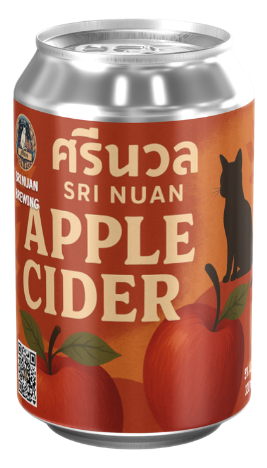
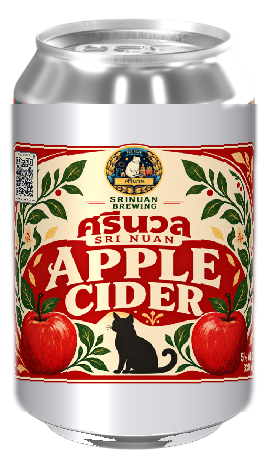
New can art, two new beers, and a storefront hide switch in admin
- Re-render the IPA, Apple Cider, Midnight, Som-Som and Blue Moon Pastry
  cans from the redesigned labels.
- IPA now 7.5% ABV; specs and notes follow the American IPA V.3 recipe
  (pilsner/wheat, Citra/Mosaic/Nectaron whirlpool, Citra/Mosaic/Amarillo
  dry hop, ~15 IBU).
- Add Corona-Khon Mexican Lager (6.0%, 13 IBU, pilsner + flaked maize,
  Saaz/Hallertauer Mittelfrueh) and Mangosteen Mead (4.0%, with Young Tam
  Farm), plus a Lager filter.
- Admin > Stock gets a Hide from site / Show on site button per beer.
  Backed by hidden:<id> keys in KV (/api/admin-visibility, /api/hidden);
  the storefront waits for that list so a hidden beer never flashes up.
- Bump asset version to v=50.

diff --git a/admin.html b/admin.html
@@ -6,7 +6,7 @@
 <title>Admin | Srinuan Brewing</title>
 <meta name="robots" content="noindex, nofollow">
 <link href="https://fonts.googleapis.com/css2?family=Cinzel:wght@600;700;900&family=Kanit:wght@300;400;500;600;700&display=swap" rel="stylesheet">
-<link rel="stylesheet" href="css/style.css?v=49">
+<link rel="stylesheet" href="css/style.css?v=50">
 <style>
   body { min-height: 100vh; }
   .admin-wrap { max-width: 720px; margin: 0 auto; padding: 60px 24px 100px; }
@@ -41,6 +41,18 @@
   .stock-row__status { font-size: 11px; padding: 4px 10px; border-radius: 999px; font-weight: 600; }
   .stock-row__status.ok { background: rgba(63,122,118,0.18); color: var(--teal-400); }
   .stock-row__status.saving { background: rgba(217,164,91,0.15); color: var(--gold-400); }
+  .stock-row__vis {
+    padding: 7px 12px; border-radius: 8px; font-family: var(--font-body); font-size: 12.5px; cursor: pointer;
+    background: none; border: 1px solid rgba(63,122,118,0.6); color: var(--teal-400); white-space: nowrap;
+  }
+  .stock-row__vis.is-hidden { border-color: rgba(192,85,63,0.55); color: var(--danger); }
+  .stock-row__vis[disabled] { opacity: 0.5; cursor: default; }
+  .stock-row.is-hidden img, .stock-row.is-hidden .stock-row__name { opacity: 0.45; }
+  .stock-row__note { display: block; font-size: 11px; color: var(--danger); font-weight: 400; }
+  @media (max-width: 520px) {
+    .stock-row { flex-wrap: wrap; }
+    .stock-row__name { flex-basis: calc(100% - 60px); }
+  }
   .admin-logout { text-align: center; margin-top: 30px; }
   .admin-logout a { color: var(--ink-muted); font-size: 13px; text-decoration: underline; cursor: pointer; }
 
@@ -142,7 +154,7 @@
   <div class="admin-logout"><a id="logout-link">Log out</a></div>
 </div>
 
-<script src="js/products.js?v=49"></script>
+<script src="js/products.js?v=50"></script>
 <script>
 (function () {
   "use strict";
@@ -232,21 +244,44 @@
 
   async function loadStock() {
     stockList.innerHTML = "Loading...";
-    var res = await fetch("/api/stock?t=" + Date.now(), { cache: "no-store" });
-    var stock = await res.json();
+    var results = await Promise.all([
+      fetch("/api/stock?t=" + Date.now(), { cache: "no-store" }).then(function (r) { return r.json(); }),
+      fetch("/api/hidden?t=" + Date.now(), { cache: "no-store" }).then(function (r) { return r.ok ? r.json() : []; }).catch(function () { return []; })
+    ]);
+    var stock = results[0];
+    var hidden = results[1] || [];
     stockList.innerHTML = "";
     PRODUCTS.forEach(function (p) {
       var row = document.createElement("div");
       row.className = "stock-row";
       row.innerHTML =
         '<img src="' + p.image + '" alt="">' +
-        '<div class="stock-row__name">' + p.name.en + "</div>" +
+        '<div class="stock-row__name">' + p.name.en + '<span class="stock-row__note"></span></div>' +
         '<input type="number" min="0" value="' + (stock[p.id] != null ? stock[p.id] : 0) + '" data-id="' + p.id + '">' +
+        '<button type="button" class="stock-row__vis"></button>' +
         '<span class="stock-row__status"></span>';
       stockList.appendChild(row);
 
       var input = row.querySelector("input");
       var statusEl = row.querySelector(".stock-row__status");
+      var visBtn = row.querySelector(".stock-row__vis");
+      var noteEl = row.querySelector(".stock-row__note");
+      var isHidden = hidden.indexOf(p.id) !== -1;
+      function paintVisibility() {
+        row.classList.toggle("is-hidden", isHidden);
+        visBtn.classList.toggle("is-hidden", isHidden);
+        visBtn.textContent = isHidden ? "Show on site" : "Hide from site";
+        noteEl.textContent = isHidden ? "Hidden from storefront" : "";
+      }
+      paintVisibility();
+      visBtn.addEventListener("click", async function () {
+        var next = !isHidden;
+        if (next && !confirm('Hide "' + p.name.en + '" from the storefront? You can show it again any time.')) return;
+        visBtn.disabled = true;
+        var ok = await saveVisibility(p.id, next, statusEl);
+        visBtn.disabled = false;
+        if (ok) { isHidden = next; paintVisibility(); }
+      });
       var timer = null;
       input.addEventListener("input", function () {
         clearTimeout(timer);
@@ -279,6 +314,32 @@
     } catch (e) {
       statusEl.textContent = "Error";
     }
+  }
+
+  async function saveVisibility(productId, hide, statusEl) {
+    statusEl.textContent = "Saving...";
+    statusEl.className = "stock-row__status saving";
+    try {
+      var res = await fetch("/api/admin-visibility", {
+        method: "POST",
+        headers: { "content-type": "application/json", "x-admin-password": sessionStorage.getItem(PW_KEY) },
+        body: JSON.stringify({ productId: productId, hidden: hide })
+      });
+      if (res.ok) {
+        statusEl.textContent = hide ? "Hidden" : "Visible";
+        statusEl.className = "stock-row__status ok";
+        return true;
+      }
+      if (res.status === 401) {
+        alert("Session expired, please log in again.");
+        location.reload();
+        return false;
+      }
+      statusEl.textContent = "Error";
+    } catch (e) {
+      statusEl.textContent = "Error";
+    }
+    return false;
   }
 
   async function loadDashboard() {

diff --git a/js/products.js b/js/products.js
@@ -17,6 +17,7 @@ const STYLE_LABELS = {
   ipa:        { en: "IPA",            th: "ไอพีเอ" },
   "pale-ale": { en: "Pale Ale",       th: "เพล เอล" },
   weizen:     { en: "Weizen",         th: "ไวเซน" },
+  lager:      { en: "Lager",          th: "ลาเกอร์" },
   witbier:    { en: "Witbier",        th: "วิทเบียร์" },
   mead:       { en: "Mead",           th: "มี้ด" },
   cider:      { en: "Cider",          th: "ไซเดอร์" },
@@ -36,17 +37,17 @@ const PRODUCTS = [
     tags: ["ipa"],
     name: { en: "India Pale Ale", th: "อินเดีย เพล เอล" },
     style: { en: "American IPA", th: "อเมริกัน ไอพีเอ" },
-    abv: 6.0,
-    ibu: 30,
-    ebc: 14,
-    colorName: { en: "Golden Amber", th: "สีทองอำพัน" },
+    abv: 7.5,
+    ibu: 15,
+    ebc: 6,
+    colorName: { en: "Pale Gold", th: "สีทองอ่อน" },
     aroma: {
-      en: ["Mango & passionfruit", "Citrus", "Pine"],
-      th: ["มะม่วงและเสาวรส", "ส้ม/เลมอน", "สน"]
+      en: ["Tropical fruit", "Citrus", "Passionfruit"],
+      th: ["ผลไม้เมืองร้อน", "ส้ม/เลมอน", "เสาวรส"]
     },
     taste: {
-      en: "American IPA, dry-hopped with Citra, Mosaic, Simcoe and Nectaron. Built on pale and biscuit malts, bitterness around 30 IBU.",
-      th: "อเมริกันไอพีเอ ดราย-ฮอปด้วย Citra, Mosaic, Simcoe และ Nectaron ใช้มอลต์เพลและบิสกิตเป็นฐาน ความขมประมาณ 30 IBU"
+      en: "American IPA on a pilsner and wheat malt base, whirlpooled with Citra, Mosaic and Nectaron, then dry-hopped with Citra, Mosaic and Amarillo. Bitterness around 15 IBU.",
+      th: "อเมริกันไอพีเอ ใช้มอลต์พิลสเนอร์และข้าวสาลีเป็นฐาน ฮ็อปสแตนด์ด้วย Citra, Mosaic และ Nectaron แล้วดราย-ฮอปด้วย Citra, Mosaic และ Amarillo ความขมประมาณ 15 IBU"
     }
   },
   {
@@ -85,6 +86,25 @@ const PRODUCTS = [
     taste: {
       en: "American pale ale built on Munich and caramel malts, hopped with Citra, Mosaic and Riwaka.",
       th: "อเมริกันเพลเอล ใช้มอลต์มิวนิกและคาราเมลเป็นฐาน ฮ็อปด้วย Citra, Mosaic และ Riwaka"
+    }
+  },
+  {
+    id: "corona-khon",
+    image: "images/corona-khon-mexican-lager.png",
+    tags: ["lager"],
+    name: { en: "Corona-Khon", th: "โคโรน่า-คอน" },
+    style: { en: "Mexican Lager", th: "เม็กซิกัน ลาเกอร์" },
+    abv: 6.0,
+    ibu: 13,
+    ebc: 7,
+    colorName: { en: "Pale Straw", th: "สีฟางอ่อน" },
+    aroma: {
+      en: ["Light grain", "Sweet corn", "Soft herbal hops"],
+      th: ["ธัญพืชอ่อนๆ", "ข้าวโพดหวาน", "ฮ็อปกลิ่นสมุนไพรเบาๆ"]
+    },
+    taste: {
+      en: "Crisp Mexican-style lager on pilsner malt with flaked maize, hopped with Saaz and Hallertauer Mittelfrüh, fermented cold and lagered for two weeks. Bitterness around 13 IBU.",
+      th: "ลาเกอร์สไตล์เม็กซิกัน สดชื่น ใช้มอลต์พิลสเนอร์และข้าวโพดเกล็ด ฮ็อปด้วย Saaz และ Hallertauer Mittelfrüh หมักเย็นแล้วบ่มอีกสองสัปดาห์ ความขมประมาณ 13 IBU"
     }
   },
   {
@@ -161,6 +181,25 @@ const PRODUCTS = [
     taste: {
       en: "Honey mead made with calamansi, a small Southeast Asian citrus.",
       th: "มี้ดจากน้ำผึ้งแท้ ผสมน้ำส้มจี๊ด"
+    }
+  },
+  {
+    id: "mangosteen-mead",
+    image: "images/mangosteen-mead.png",
+    tags: ["mead"],
+    name: { en: "Mangosteen Mead", th: "มังคุด มี้ด" },
+    style: { en: "Mangosteen & Honey Mead", th: "มี้ดมังคุดผสมน้ำผึ้ง" },
+    abv: 4.0,
+    ibu: 0,
+    ebc: null,
+    colorName: { en: null, th: null },
+    aroma: {
+      en: ["Mangosteen", "Honey", "Floral"],
+      th: ["มังคุด", "น้ำผึ้ง", "กลิ่นดอกไม้"]
+    },
+    taste: {
+      en: "Honey mead made with mangosteen from Young Tam Farm in Phrom Khiri, a collaboration with the farm.",
+      th: "มี้ดจากน้ำผึ้งแท้ ใส่มังคุดจากยังทำฟาร์ม อ.พรหมคีรี ทำร่วมกับทางฟาร์ม"
     }
   },
   {

diff --git a/js/script.js b/js/script.js
@@ -167,9 +167,15 @@
   var filterBar = document.getElementById("filter-bar");
   var currentFilter = "all";
 
+  // Beers the shop took off the storefront in admin (ids from /api/hidden).
+  var HIDDEN = [];
+  function visibleProducts() {
+    return PRODUCTS.filter(function (p) { return HIDDEN.indexOf(p.id) === -1; });
+  }
+
   function usedCategories() {
     var set = [];
-    PRODUCTS.forEach(function (p) {
+    visibleProducts().forEach(function (p) {
       if (set.indexOf(p.tags[0]) === -1) set.push(p.tags[0]);
     });
     return set;
@@ -262,9 +268,9 @@
   }
 
   function renderGrid(filter) {
-    var items = PRODUCTS;
+    var items = visibleProducts();
     if (filter && filter !== "all") {
-      items = PRODUCTS.filter(function (p) { return p.tags[0] === filter; });
+      items = items.filter(function (p) { return p.tags[0] === filter; });
     }
     grid.innerHTML = items.map(cardTemplate).join("");
     grid.querySelectorAll(".product-card").forEach(function (card) {
@@ -327,8 +333,27 @@
   });
 
   /* ---------- Init ---------- */
+  function fetchHidden() {
+    return fetch("/api/hidden?t=" + Date.now(), { cache: "no-store" })
+      .then(function (res) { return res.ok ? res.json() : []; })
+      .then(function (ids) { HIDDEN = Array.isArray(ids) ? ids : []; })
+      .catch(function () { HIDDEN = []; });
+  }
+
+  // Wait for the hidden list before drawing the grid, so a beer taken off the
+  // storefront never flashes up first. If the API is slow, draw everything
+  // after 2.5s rather than leave the section empty.
+  function paintCatalogue() {
+    renderFilters();
+    renderGrid(currentFilter);
+  }
   applyStaticText();
-  renderFilters();
-  renderGrid("all");
-  fetchStock().then(function () { renderGrid(currentFilter); });
+  var giveUp = setTimeout(paintCatalogue, 2500);
+  Promise.all([fetchHidden(), fetchStock()]).then(function () {
+    clearTimeout(giveUp);
+    // A visitor may have picked a style chip during the fallback paint whose
+    // only beers turn out to be hidden; fall back to "All" instead of an empty grid.
+    if (currentFilter !== "all" && usedCategories().indexOf(currentFilter) === -1) currentFilter = "all";
+    paintCatalogue();
+  });
 })();

diff --git a/functions/api/admin-visibility.js b/functions/api/admin-visibility.js
@@ -1,0 +1,23 @@
+import { guardAdmin } from "./_admin.js";
+// POST /api/admin-visibility { productId, hidden } - takes a beer off the
+// storefront (hidden: true) or puts it back (hidden: false). Nothing about the
+// beer is deleted, so showing it again restores it exactly as it was.
+// Requires the admin password in the x-admin-password header.
+export async function onRequestPost({ request, env }) {
+  const blocked = await guardAdmin(request, env, request.headers.get("x-admin-password") || "");
+  if (blocked) return blocked;
+
+  const body = await request.json().catch(() => null);
+  const productId = body && typeof body.productId === "string" ? body.productId.trim() : "";
+  if (!/^[a-z0-9-]{1,40}$/.test(productId) || typeof body.hidden !== "boolean") {
+    return Response.json({ error: "invalid_body" }, { status: 400 });
+  }
+
+  const key = "hidden:" + productId;
+  if (body.hidden) {
+    await env.STOCK_KV.put(key, "1");
+  } else {
+    await env.STOCK_KV.delete(key);
+  }
+  return Response.json({ ok: true, productId, hidden: body.hidden });
+}

diff --git a/index.html b/index.html
@@ -21,7 +21,7 @@
 <link rel="preconnect" href="https://fonts.googleapis.com">
 <link rel="preconnect" href="https://fonts.gstatic.com" crossorigin>
 <link href="https://fonts.googleapis.com/css2?family=Cinzel:wght@600;700;900&family=Kanit:wght@300;400;500;600;700&display=swap" rel="stylesheet">
-<link rel="stylesheet" href="css/style.css?v=49">
+<link rel="stylesheet" href="css/style.css?v=50">
 </head>
 <body>
 
@@ -183,8 +183,8 @@
   <div class="modal__card" id="modal-card"></div>
 </div>
 
-<script src="js/products.js?v=49"></script>
-<script src="js/script.js?v=49"></script>
+<script src="js/products.js?v=50"></script>
+<script src="js/script.js?v=50"></script>
 <!-- Cloudflare Web Analytics --><script type='module' src='https://static.cloudflareinsights.com/beacon.min.js' data-cf-beacon='{"token": "11c3134f9000445daf03bdaf63dba18e"}'></script><!-- End Cloudflare Web Analytics -->
 </body>
 </html>

diff --git a/privacy.html b/privacy.html
@@ -6,7 +6,7 @@
 <title>นโยบายความเป็นส่วนตัว | Srinuan Brewing</title>
 <link rel="icon" href="images/logo.png">
 <link href="https://fonts.googleapis.com/css2?family=Cinzel:wght@600;700;900&family=Kanit:wght@300;400;500;600;700&display=swap" rel="stylesheet">
-<link rel="stylesheet" href="css/style.css?v=49">
+<link rel="stylesheet" href="css/style.css?v=50">
 <style>
   body { min-height: 100vh; }
   .doc-wrap { max-width: 760px; margin: 0 auto; padding: 60px 24px 100px; }

diff --git a/functions/api/hidden.js b/functions/api/hidden.js
@@ -1,0 +1,9 @@
+// GET /api/hidden - public, lists the product ids the shop has taken off the
+// storefront. The beers stay in js/products.js; the page just skips these.
+export async function onRequestGet({ env }) {
+  const list = await env.STOCK_KV.list({ prefix: "hidden:" });
+  const ids = list.keys.map(function (k) { return k.name.slice("hidden:".length); });
+  return Response.json(ids, {
+    headers: { "Cache-Control": "no-store, no-cache, must-revalidate" }
+  });
+}

diff --git a/pay.html b/pay.html
@@ -7,7 +7,7 @@
 <title>ชำระเงิน | Srinuan Brewing</title>
 <link rel="icon" href="images/logo.png">
 <link href="https://fonts.googleapis.com/css2?family=Cinzel:wght@600;700;900&family=Kanit:wght@300;400;500;600;700&display=swap" rel="stylesheet">
-<link rel="stylesheet" href="css/style.css?v=49">
+<link rel="stylesheet" href="css/style.css?v=50">
 <style>
   body { min-height: 100vh; }
   .pay-wrap { max-width: 520px; margin: 0 auto; padding: 70px 24px 100px; }

diff --git a/track.html b/track.html
@@ -6,7 +6,7 @@
 <title>Track Your Order | Srinuan Brewing</title>
 <link rel="icon" href="images/logo.png">
 <link href="https://fonts.googleapis.com/css2?family=Cinzel:wght@600;700;900&family=Kanit:wght@300;400;500;600;700&display=swap" rel="stylesheet">
-<link rel="stylesheet" href="css/style.css?v=49">
+<link rel="stylesheet" href="css/style.css?v=50">
 <style>
   body { min-height: 100vh; }
   .track-wrap { max-width: 520px; margin: 0 auto; padding: 70px 24px 100px; }
